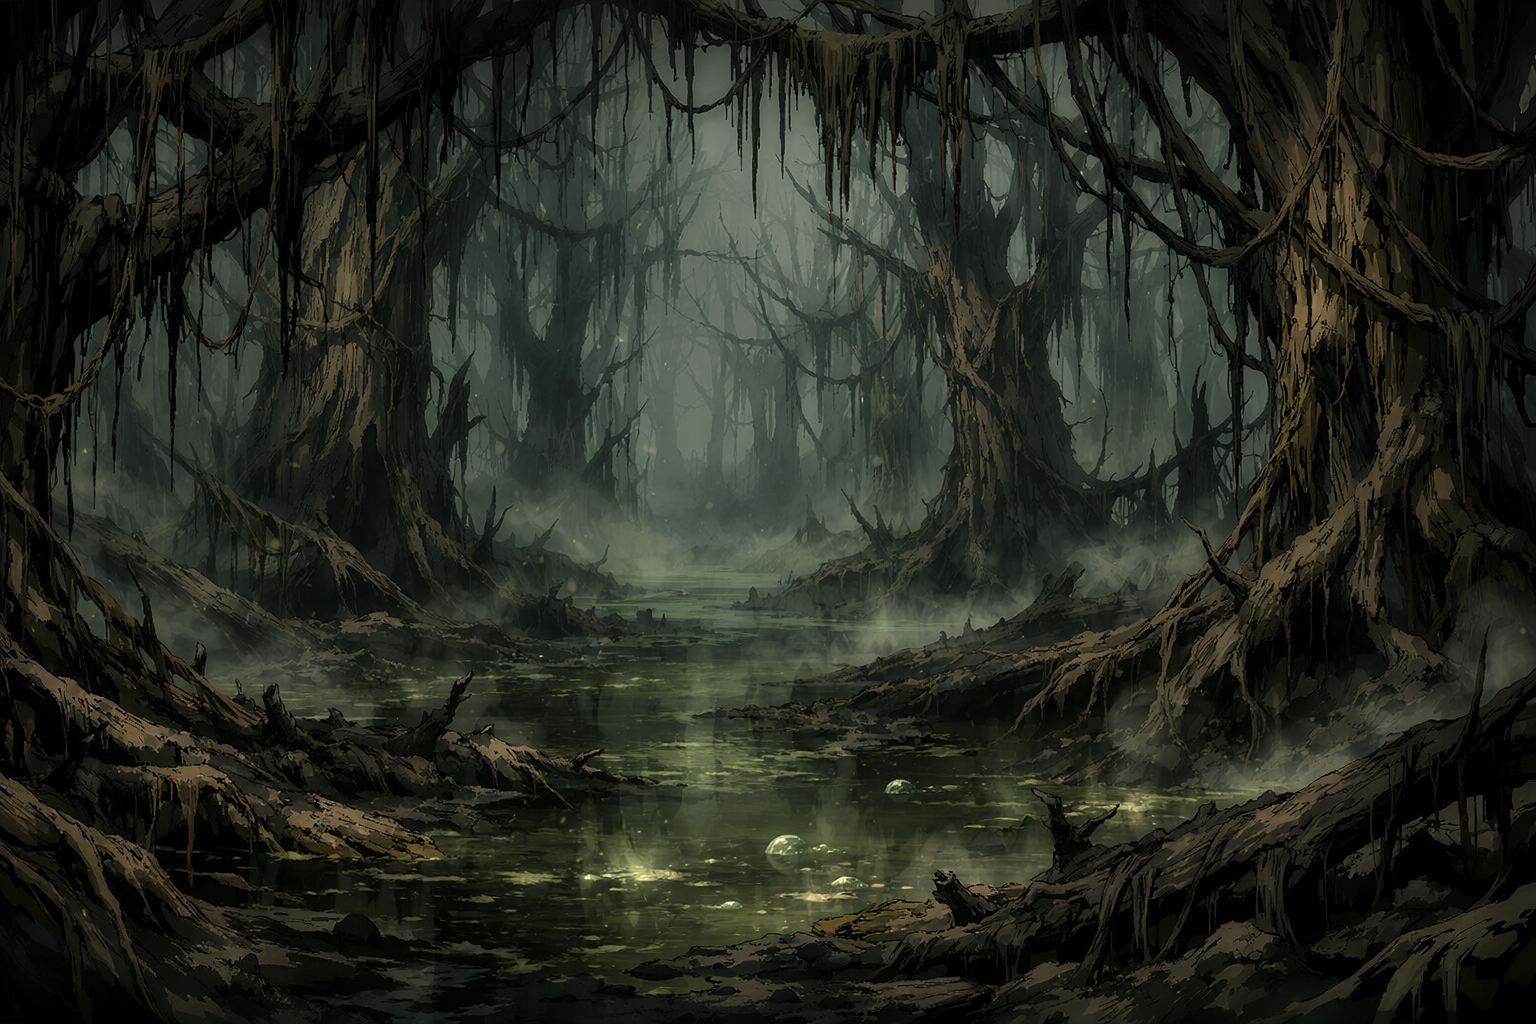
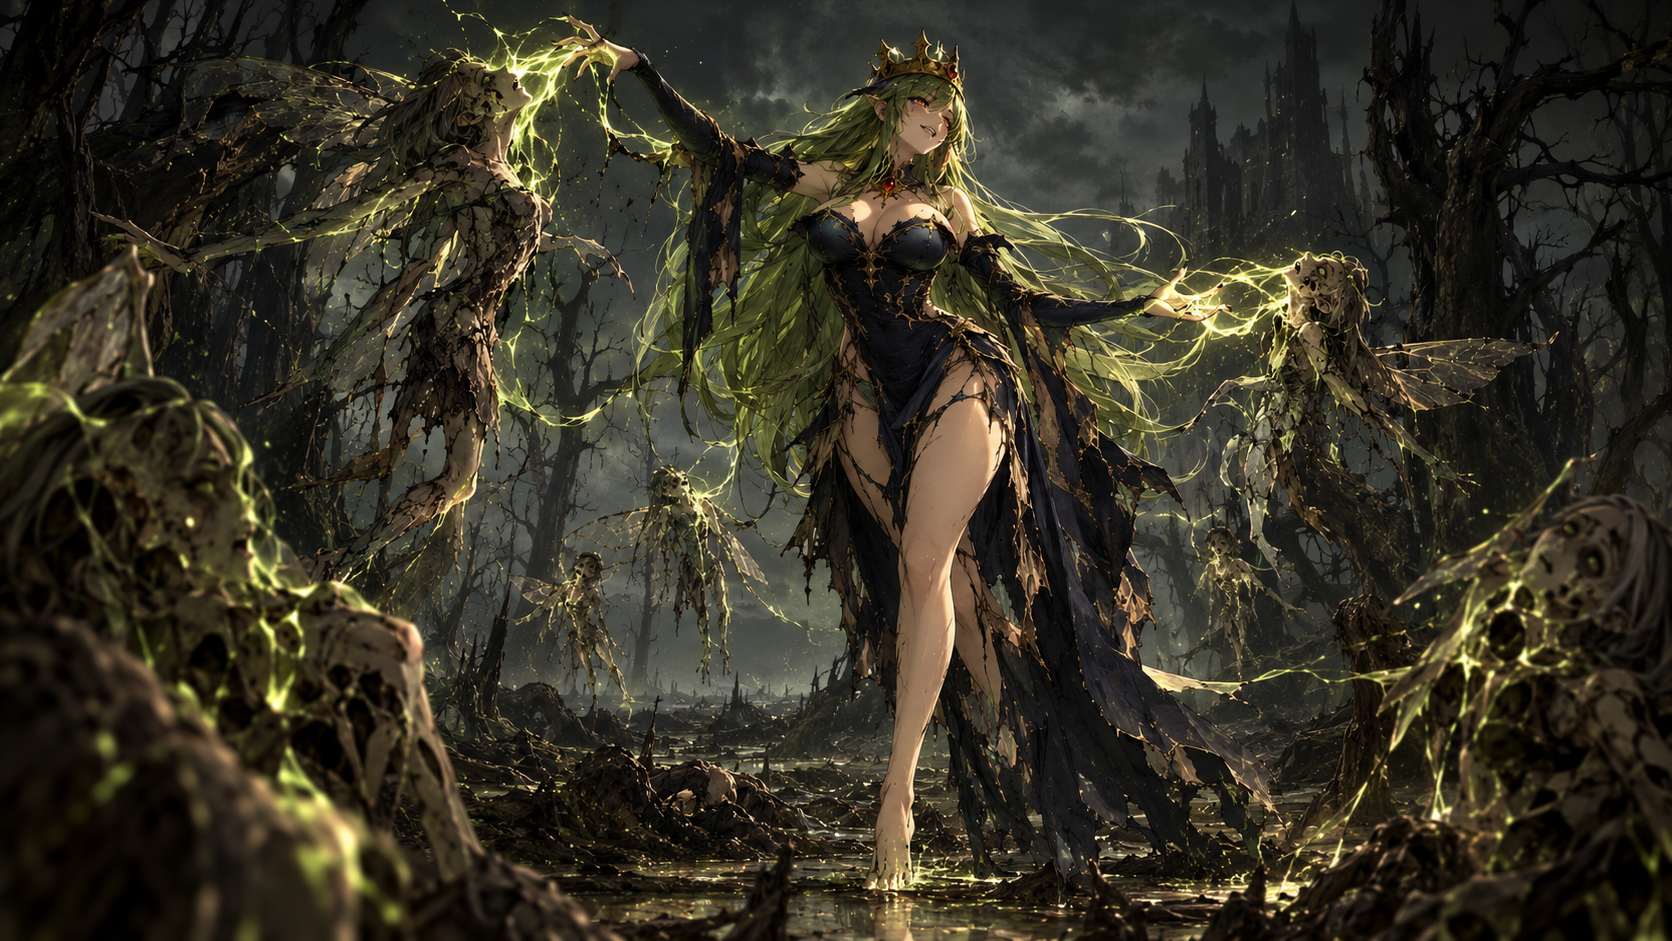
rename images ch3-6

diff --git a/docs/images/bg/ch3-image-names.md b/docs/images/bg/ch3-image-names.md
@@ -110,3 +110,10 @@ Numbered by the artist; used by the Forgotten Sanctum scene appended to ch-3_0.
 | 8 | Kuro Defeated Alex | ch-3_5 "…คุโระ…" (entry 112) |
 | 9 | Kuro Spared Alex | ch-3_5 "…เจ้าเชื่อว่าข้าจะเปลี่ยนได้…" |
 | 10 | Kuro Past Present | ch-3_5 "…นั่น ไม่ใช่เจ้า…" |
+
+## ch3-6
+| # | Original name | Used in |
+|---|---|---|
+| 0 | Calamity-Lahabrea-Intro | ch-3_6 Albert describes Lahabrea (entries 108–110) |
+| 1 | Calamity-Famine-Intro | ch-3_6 Albert describes Famine / Titania (entries 113–121) |
+| 2 | Calamity-Kefka-Intro | ch-3_6 Albert describes Kefka (entries 122–124) |
